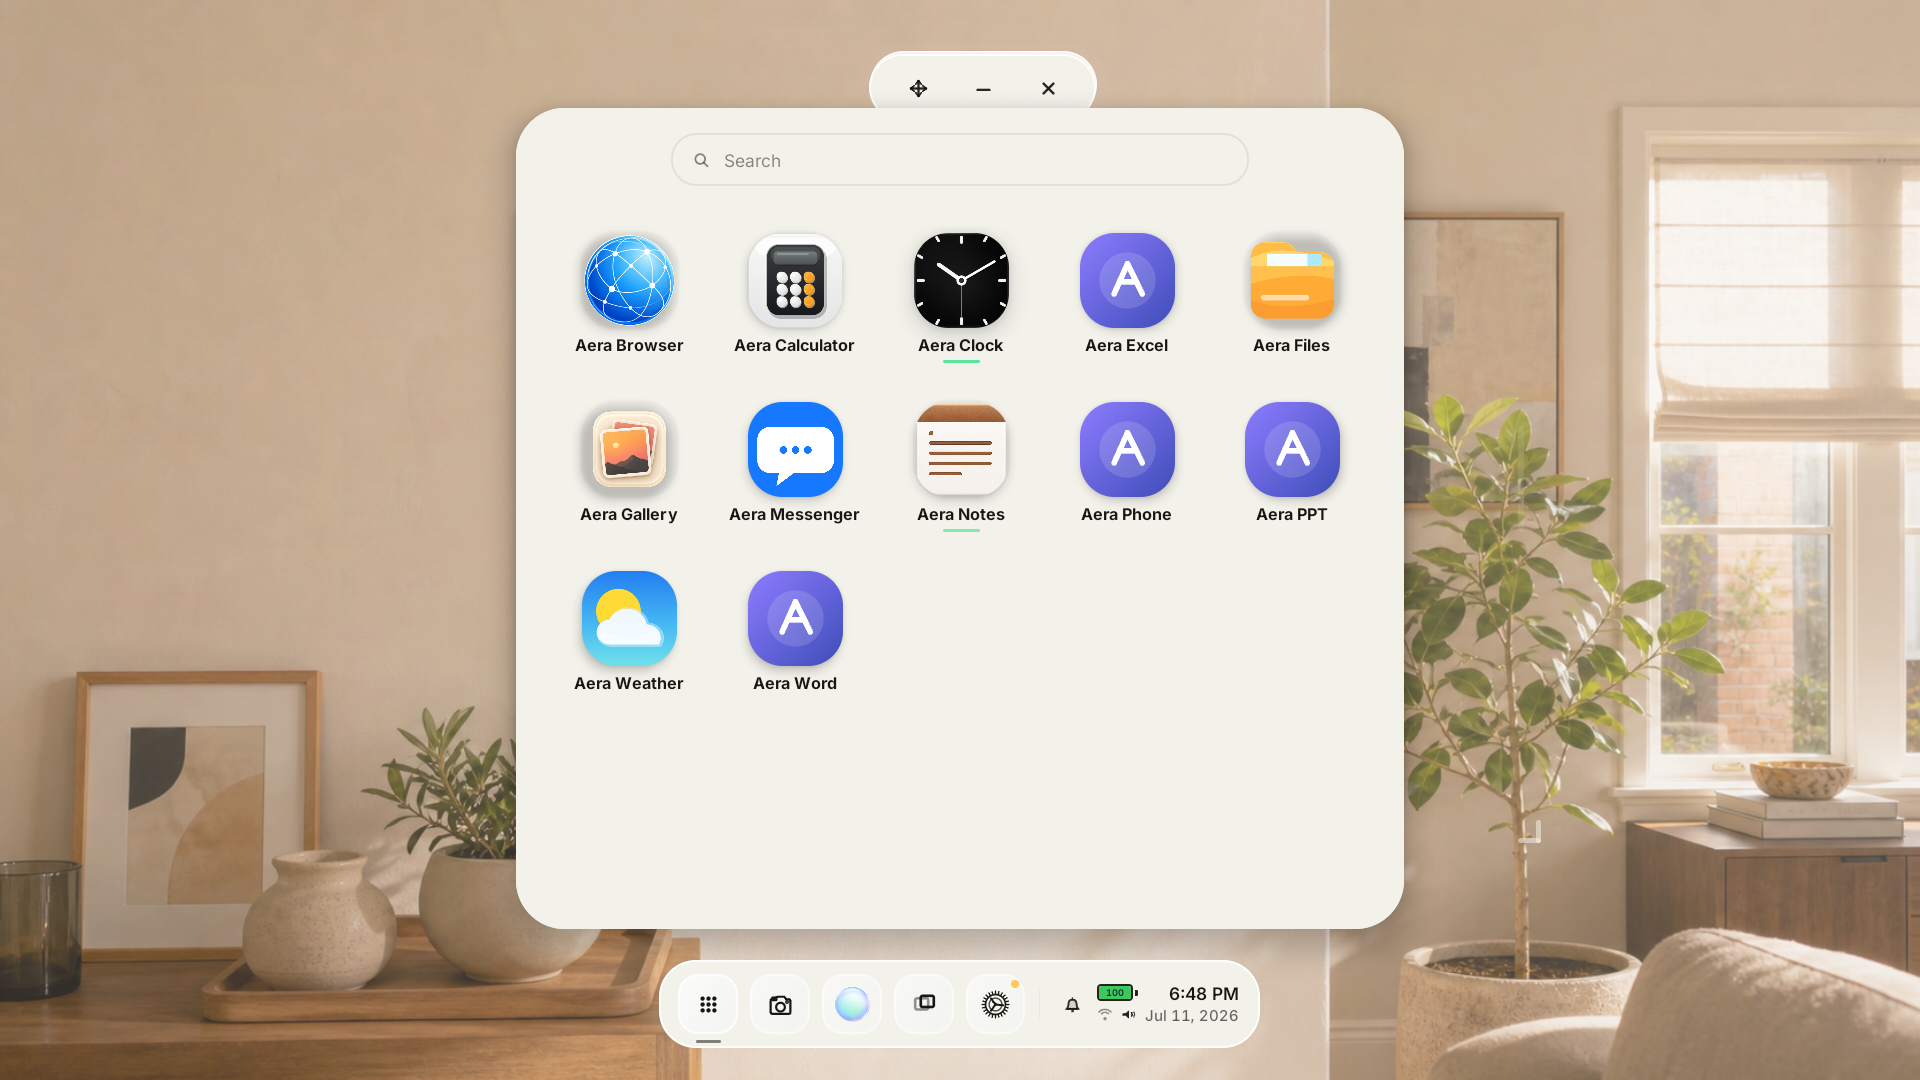
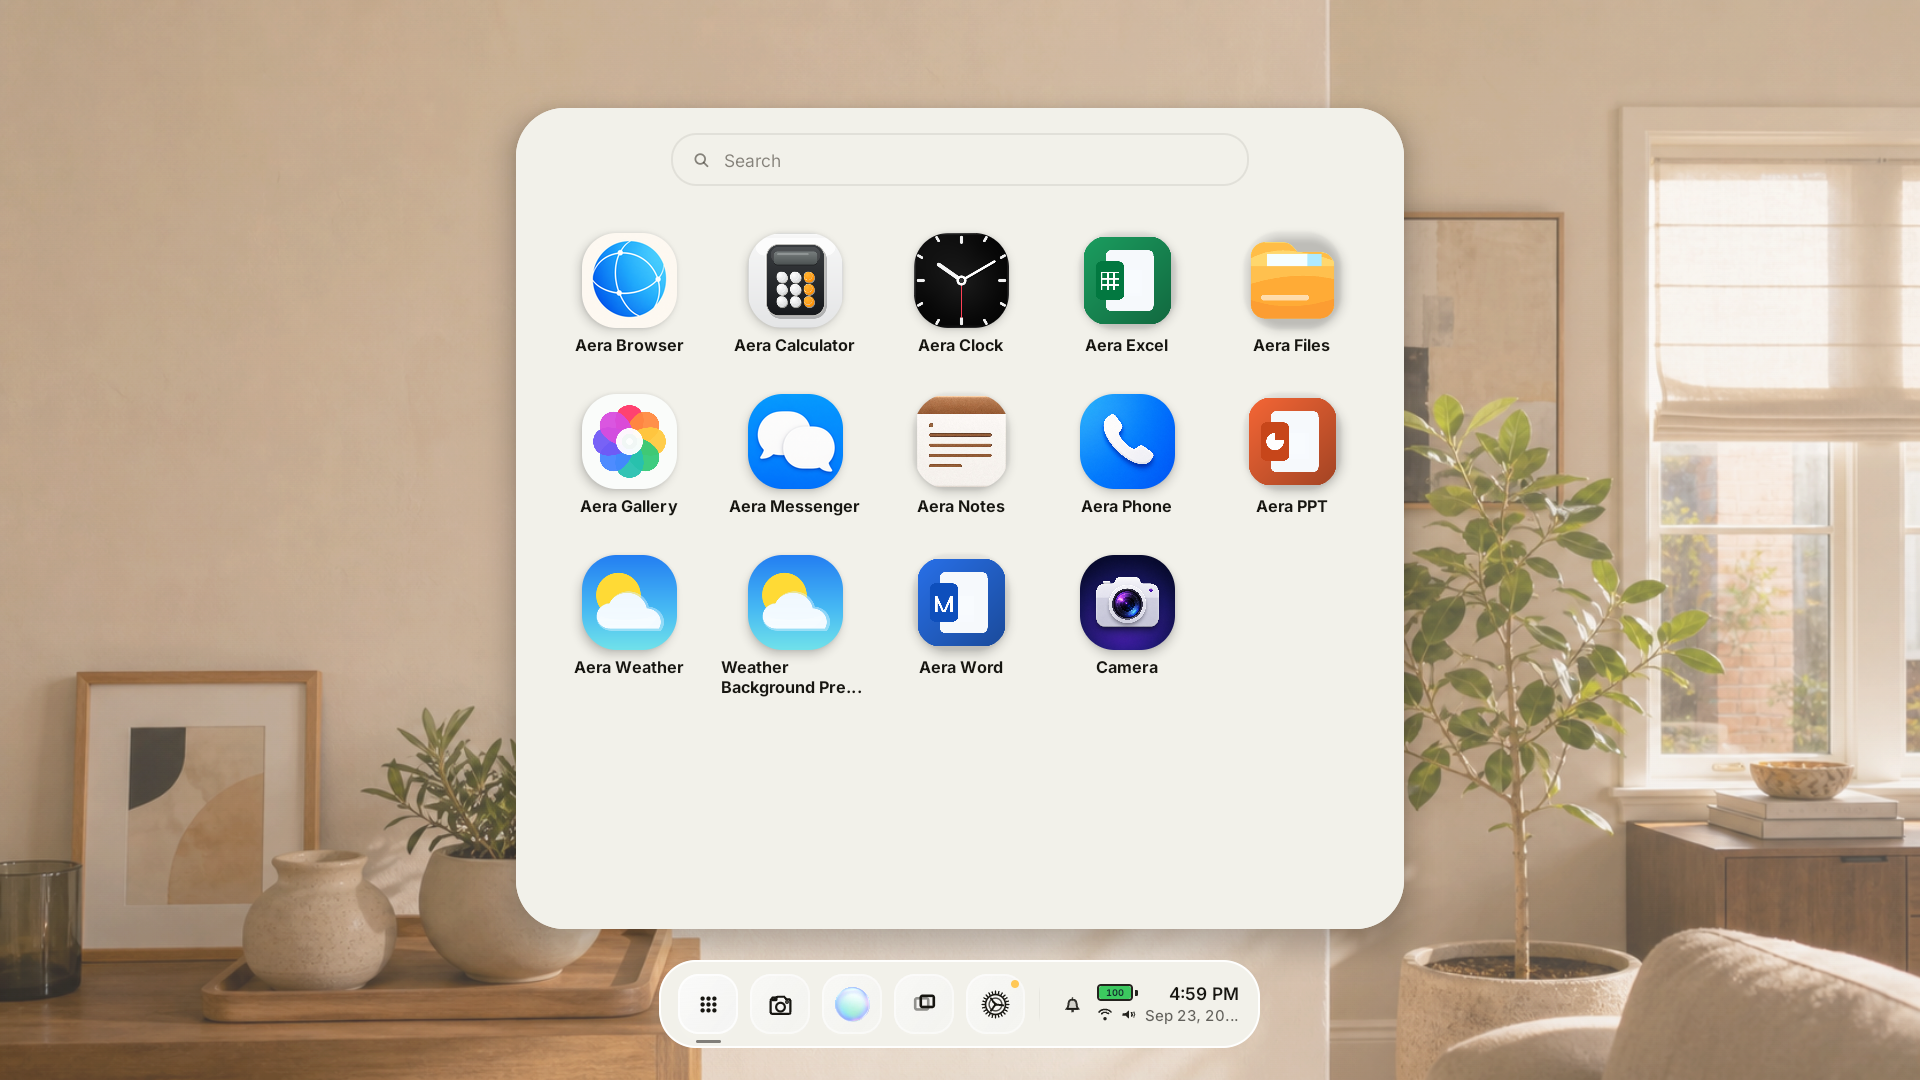
Refresh launcher screenshot from the current Main emulator

diff --git a/README.md b/README.md
@@ -8,7 +8,7 @@ Aera OS explores how a launcher, everyday apps, and window interactions can work
 
 ![Aera OS launcher in the Android emulator](assets/launcher.png)
 
-*Development screenshot from July 2026. The launcher illustrates the app ecosystem; the presence of an icon does not imply that every app is complete.*
+*Captured from the current Aera OS Main emulator on 23 September 2026. The launcher illustrates the app ecosystem; the presence of an icon does not imply that every app is complete.*
 
 ## What I work on
 
